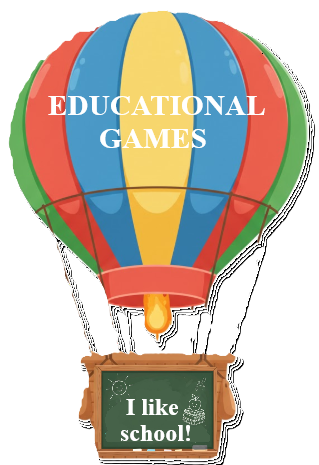
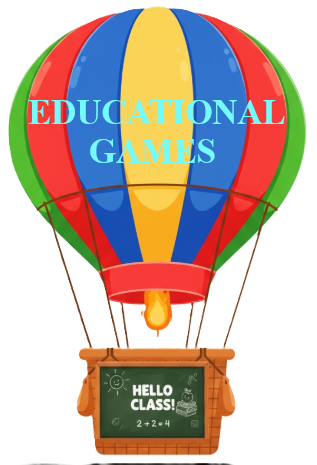
Add files via upload

diff --git a/index.html b/index.html
@@ -100,10 +100,12 @@
             <div id="stars">
             </div> <br><br><br>
             <!-- ALIEN UFO - STOP -->
-
-            <a href="https://cristian-tr.github.io/Wally-Luna/index.html">
-              <img src="./education.png" alt="educational games" width="270" height="400" style="margin: 53px;">
-            </a>
+            <div class="row">
+              <a href="https://cristian-tr.github.io/Wally-Luna/index.html">
+                <img src="./education.png" alt="educational games" width="210" height="280"
+                  style="margin-bottom: 90px; margin-top: -20px;">
+              </a>
+            </div>
 
           </div>
 
